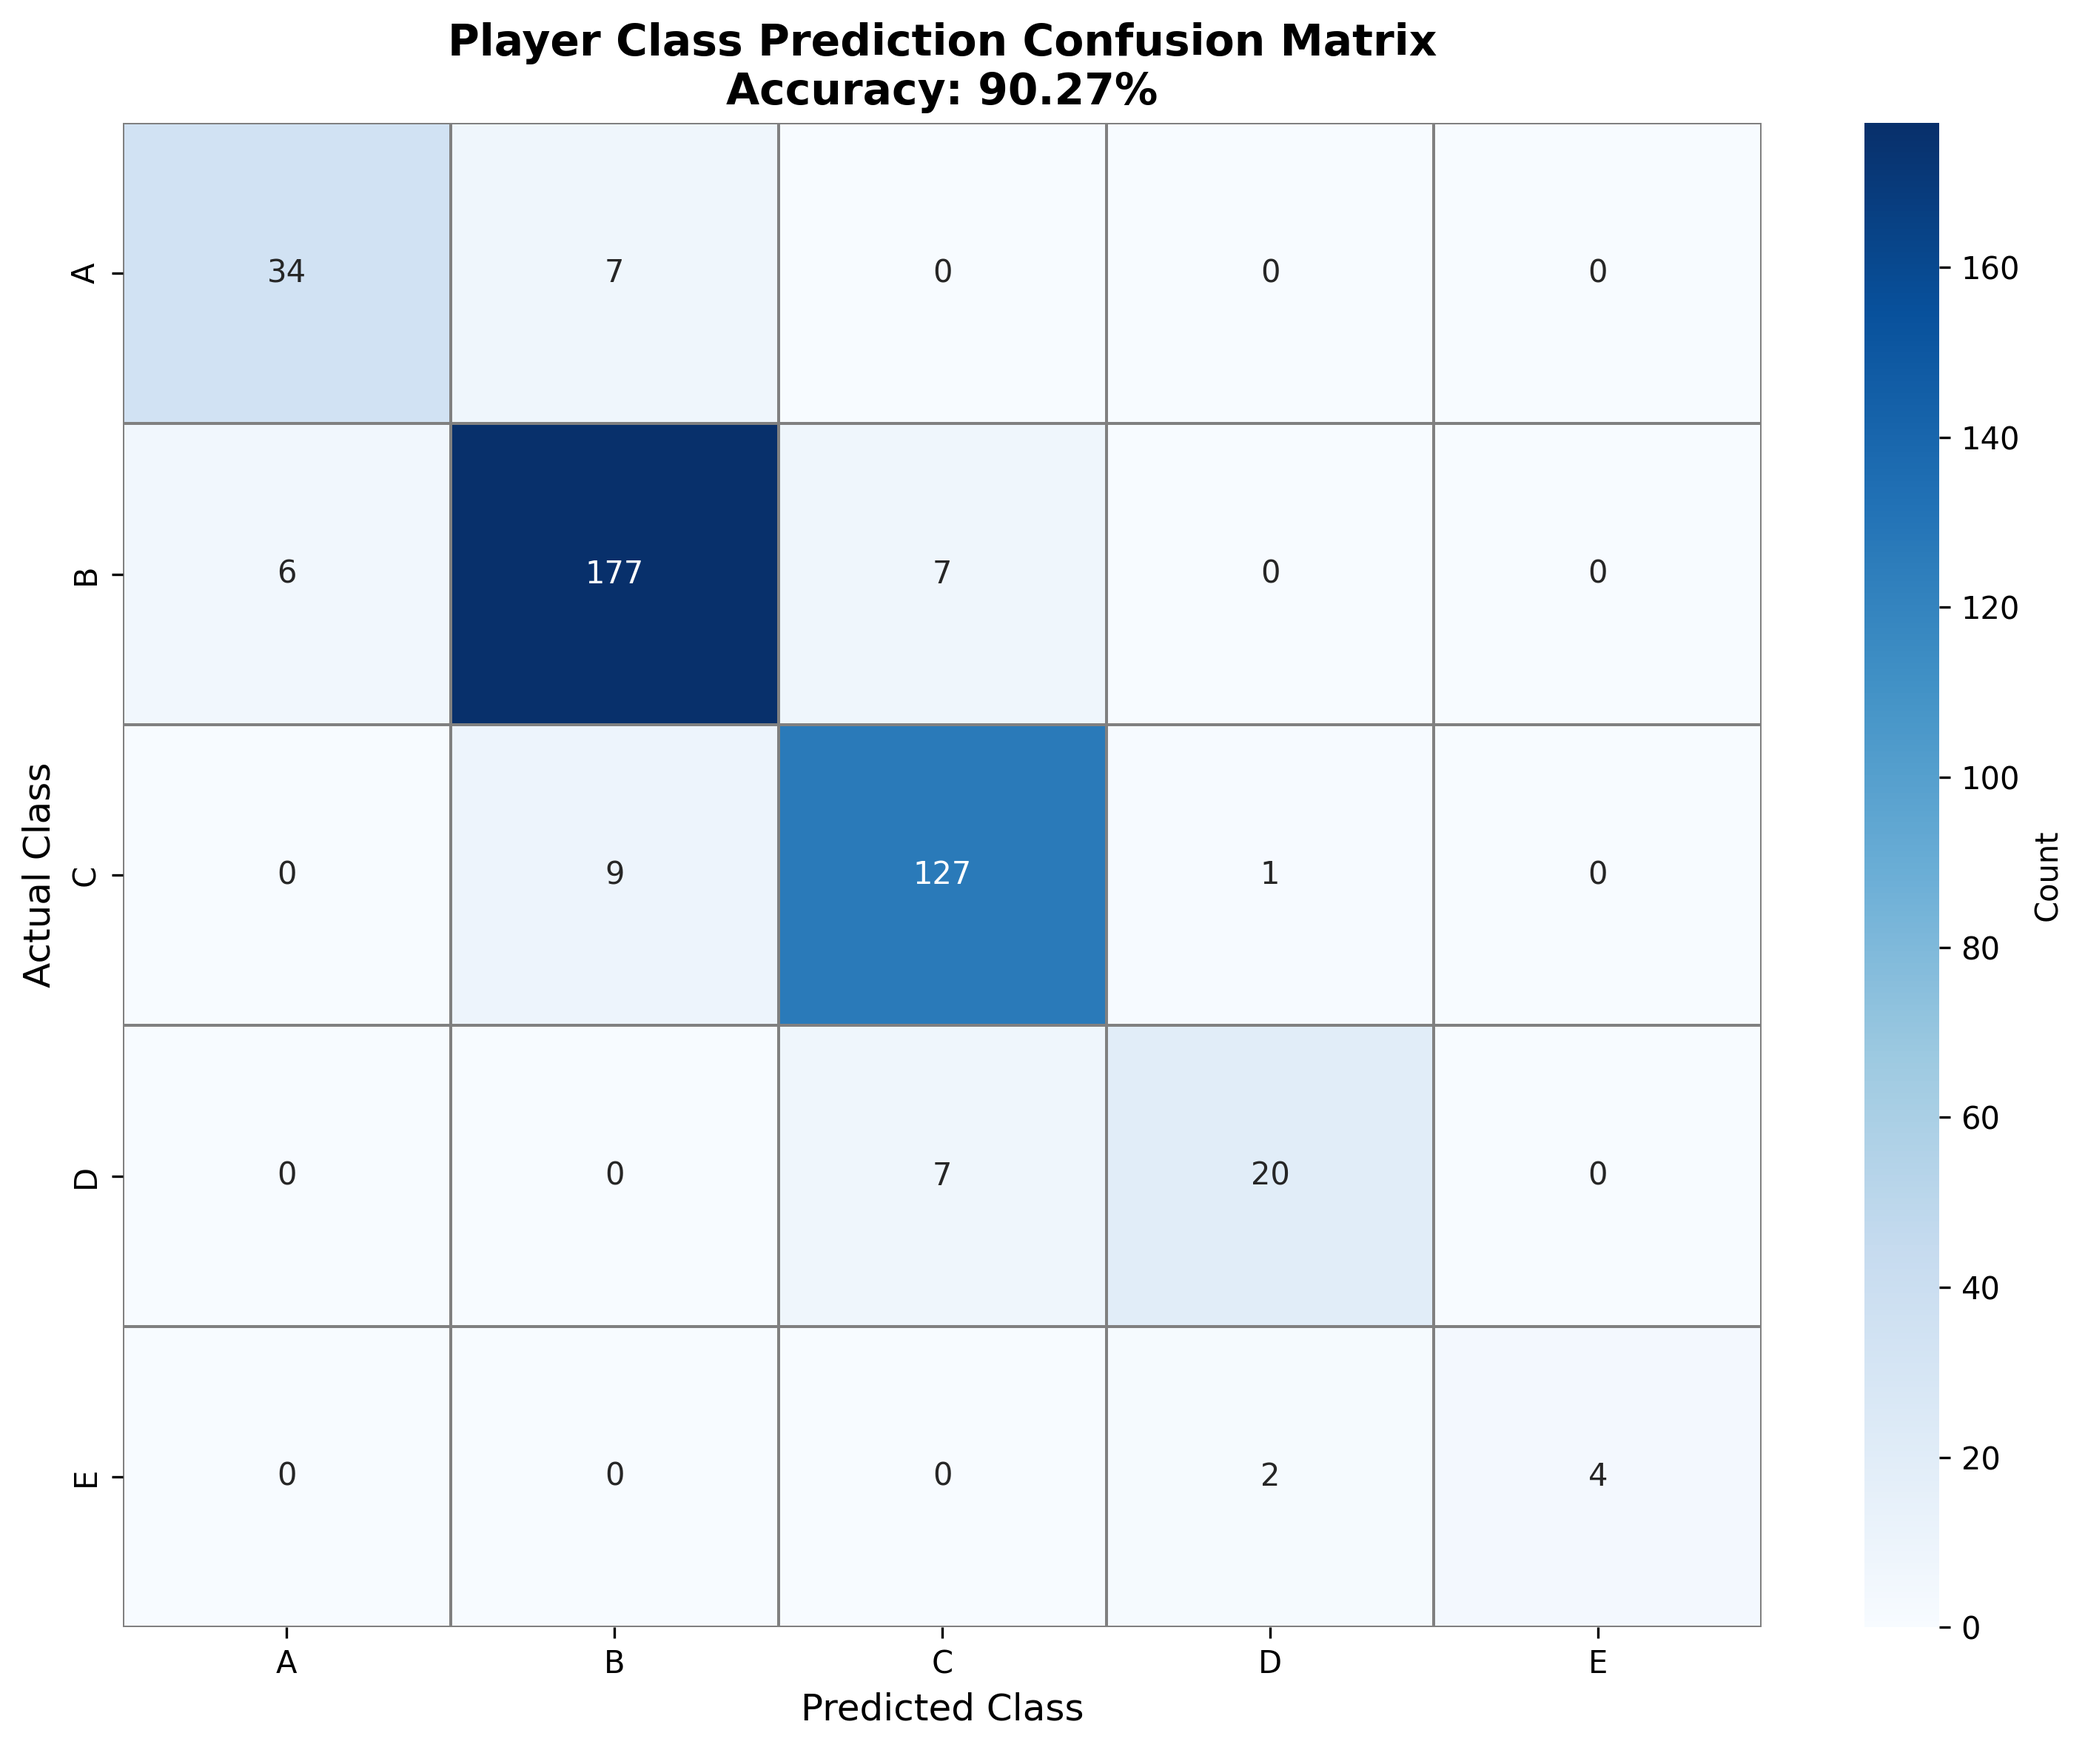
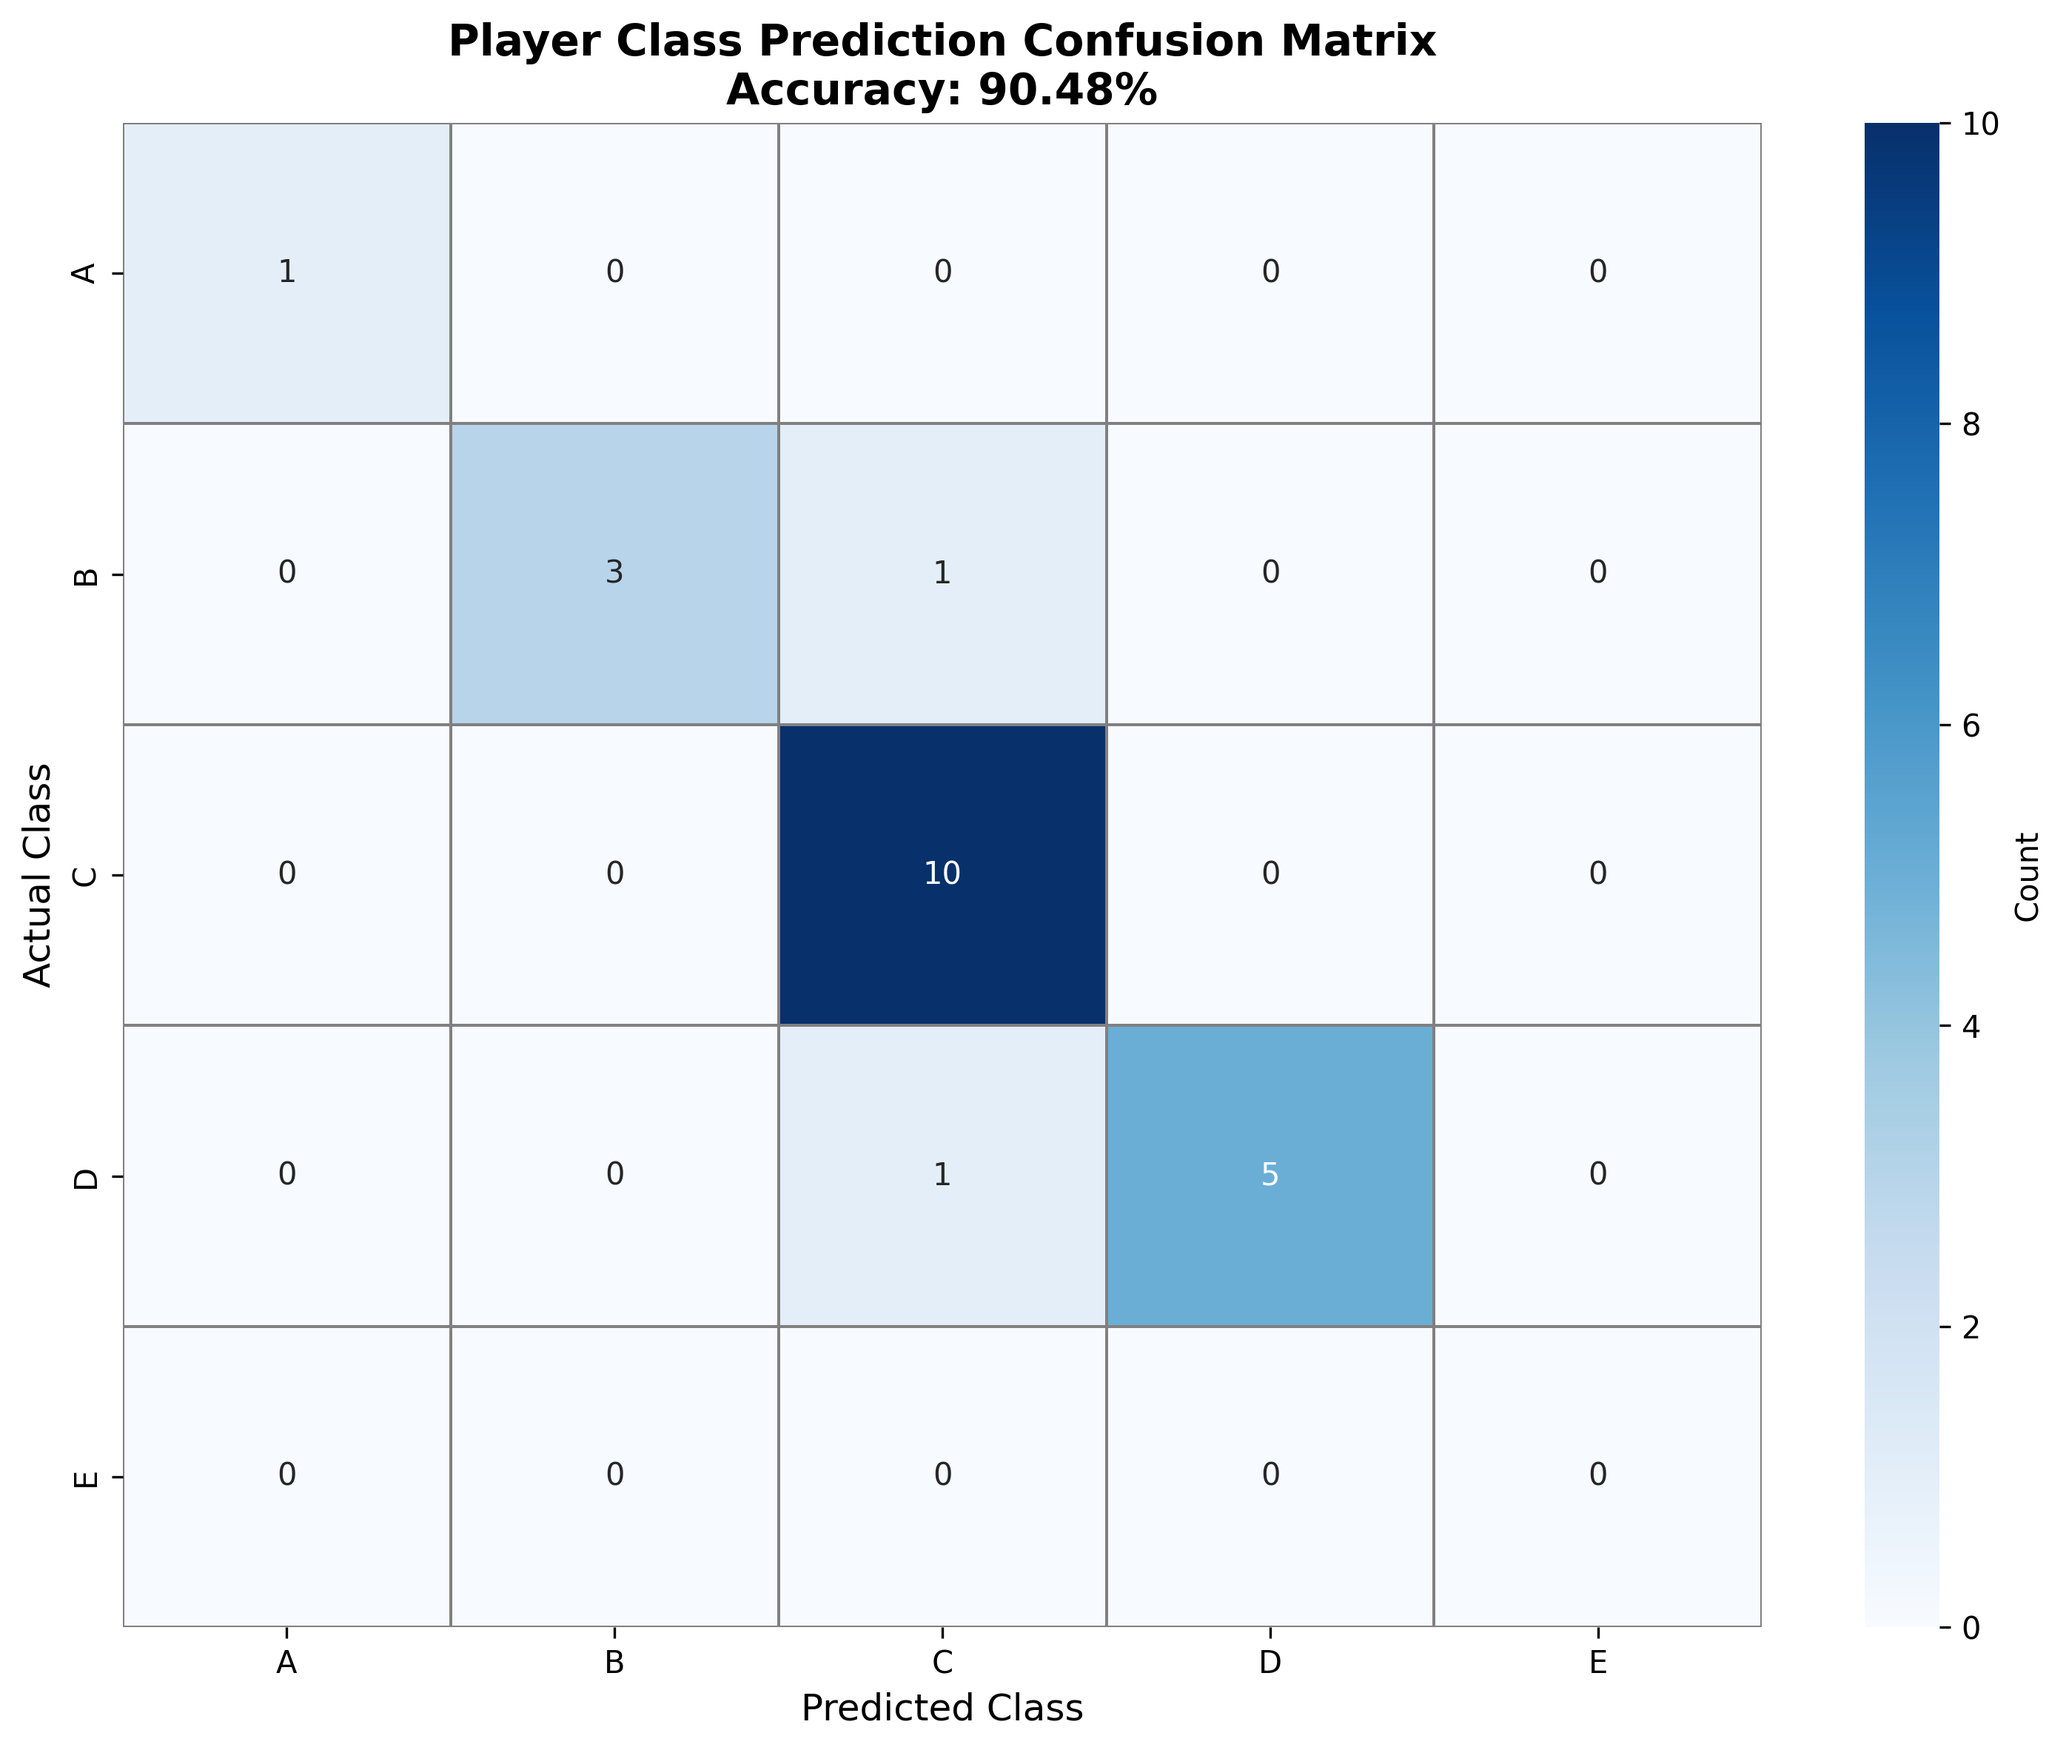
New model generated with new weighted scales and class boundaries.

diff --git a/src/generate_data.py b/src/generate_data.py
@@ -75,7 +75,7 @@ print(f"CODM Experience Distribution: {codm_exp_dist}")
 print(f"Preferred Mode Distribution: {preferred_mode_dist}")
 
 # Step 4: Generate synthetic data
-print(f"\nGenerating 1932 synthetic records...")
+print(f"\nGenerating 70 synthetic records...")
 
 def generate_correlated_synthetic_data(n_samples, real_data):
     """
@@ -166,13 +166,13 @@ def generate_correlated_synthetic_data(n_samples, real_data):
         synthetic_records.append(record)
 
         # Progress indicator
-        if (i + 1) % 500 == 0:
+        if (i + 1) % 10 == 0:
             print(f"   Generated {i + 1}/{n_samples} records...")
     
     return pd.DataFrame(synthetic_records)
 
 # Generate synthetic data
-synthetic_data = generate_correlated_synthetic_data(1932, real_data_clean)
+synthetic_data = generate_correlated_synthetic_data(70, real_data_clean)
 
 print(f"Synthetic data generated: {len(synthetic_data)} records")
 
@@ -199,53 +199,61 @@ print("\nCreating performance score...")
 
 def calculate_performance_score(row):
     """
-    Calculate player performance score (0-100) based on weighted features
+    Calculate player performance score (0-100) based on weighted features.
     
-    NEW Weight Distribution:
-    - MP Legendary Streak: 20% (0-20 points, CAPPED at 15 seasons)
-    - CODM Experience: 15% (0-15 points)
-    - K/D Ratio: 30% (0-30 points)
-    - Daily Play Time: 25% (0-25 points)
-    - Experience Level: 10% (0-10 points)
+    NEW DYNAMIC CODM WEIGHT DISTRIBUTION:
+    - MP Legendary Streak: 35% (Capped at 18 seasons to reflect long-term veterans)
+    - K/D Ratio: 30% (Dynamically scaled: 1-5 for new players, 1-2.5 for veterans)
+    - Daily Play Time: 15% (Rewards dedication/progress, allows new players to score well)
+    - Experience Level: 10% (General game time indicator, caps at 400)
+    - CODM Experience: 10% (Account age baseline)
     """
     
-    # 1. MP Legendary Streak: 20 points MAX, CAPPED at 15 seasons
-    legendary_capped = min(15, row['mp_legendary_streak'])
-    legendary_score = (legendary_capped / 15) * 20  # 0→0, 15→20
+    # 1. MP Legendary Streak: 35 points MAX (Capped at 18 seasons)
+    legendary_capped = min(18, row['mp_legendary_streak'])
+    legendary_score = (legendary_capped / 18) * 35
     
-    # 2. CODM Experience: 15 points
-    experience_map = {
-        'Less than 1 year': 3.75,      # 25% of 15
-        '1-2 years': 7.5,              # 50% of 15
-        '2-3 years': 11.25,            # 75% of 15
-        'More than 3 years': 15        # 100% of 15
-    }
-    experience_score = experience_map.get(row['codm_experience'], 7.5)
+    # 2. K/D Ratio: 30 points MAX (Dynamic Scaling)
+    kd = row['mp_kd_ratio']
+    exp_years = row['codm_experience']
     
-    # 3. K/D Ratio: 30 points (CAPPED at 2.5)
-    kd_capped = min(2.5, row['mp_kd_ratio'])
-    kd_normalized = (kd_capped - 0.5) / 2.0  # 0.5→0, 2.5→1
-    kd_score = min(30, max(0, kd_normalized * 30))
-
-    
-    # 4. Daily Play Time: 25 points
+    if exp_years in ['Less than 1 year', '1-2 years']:
+        # New players get bot lobbies, K/D is inflated. Scale from 1.0 to 5.0.
+        kd_capped = min(5.0, max(1.0, kd))
+        kd_score = ((kd_capped - 1.0) / 4.0) * 30
+    else:
+        # Veteran players face real players/SBMM, K/D is harder. Scale from 1.0 to 2.5.
+        kd_capped = min(2.5, max(1.0, kd))
+        kd_score = ((kd_capped - 1.0) / 1.5) * 30
+        
+    # 3. Daily Play Time: 15 points MAX 
+    # Heavily rewards active learners and helps balance out new players lacking years of history
     play_time_map = {
-        'Less than 1 hour': 6.25,      # 25% of 25
-        '1-2 hours': 12.5,             # 50% of 25
-        '2-3 hours': 18.75,            # 75% of 25
-        'More than 3 hours': 25        # 100% of 25
+        'Less than 1 hour': 3.75,      # 25% of 15
+        '1-2 hours': 7.5,              # 50% of 15
+        '2-3 hours': 11.25,            # 75% of 15
+        'More than 3 hours': 15.0      # 100% of 15
     }
-    play_time_score = play_time_map.get(row['daily_play_time'], 12.5)
+    play_time_score = play_time_map.get(row['daily_play_time'], 7.5)
+
+    # 4. Experience Level: 10 points MAX (Level 1 to 400)
+    level_normalized = min(400, max(1, row['experience_level'])) / 400
+    level_score = level_normalized * 10
     
-    # 5. Experience Level: 10 points
-    level_normalized = (row['experience_level'] - 50) / 350  # 50→0, 400→1
-    level_score = min(10, max(0, level_normalized * 10))
+    # 5. CODM Experience (Years): 10 points MAX
+    experience_map = {
+        'Less than 1 year': 2.5,       # 25% of 10
+        '1-2 years': 5.0,              # 50% of 10
+        '2-3 years': 7.5,              # 75% of 10
+        'More than 3 years': 10.0      # 100% of 10
+    }
+    experience_score = experience_map.get(row['codm_experience'], 5.0)
     
     # Calculate total score
     total = kd_score + legendary_score + level_score + play_time_score + experience_score
     
-    # Add small random noise (±2 points) for realism
-    noise = np.random.normal(0, 1.5)
+    # Add a tiny bit of random noise (±1 point) for realism
+    noise = np.random.normal(0, 1.0)
     final_score = np.clip(total + noise, 0, 100)
     
     return round(final_score, 1)
@@ -255,18 +263,20 @@ combined_data['performance_score'] = combined_data.apply(calculate_performance_s
 
 # Step 7: Assign player classes
 def assign_class(score):
-    """NEW CLASS BOUNDARIES"""
-    if score >= 71:
-        return 'A'
-    elif score >= 51:
-        return 'B'
+    """
+    ADJUSTED CLASS BOUNDARIES
+    Accounts for the 18-season cap and the dynamic K/D scaling.
+    """
+    if score >= 75:
+        return 'A'  # Elite (Requires ~15+ Legendaries, max K/D bracket, and high activity)
+    elif score >= 55:
+        return 'B'  # Advanced (Great veterans, or incredibly dedicated/high K/D newer players)
     elif score >= 35:
-        return 'C'
-    elif score >= 26:
-        return 'D'
+        return 'C'  # Intermediate (The true average: Level 200-400, moderate K/D, a few Legendaries)
+    elif score >= 20:
+        return 'D'  # Beginner (Active but newer, or very casual older players)
     else:
-        return 'E'
-
+        return 'E'  # Novice (Brand new, low activity, sub-1.0 K/D)
 
 combined_data['player_class'] = combined_data['performance_score'].apply(assign_class)
 
@@ -300,7 +310,7 @@ print("\nExperience Level:")
 print(combined_data['experience_level'].describe())
 
 # Step 9: Save the combined dataset to proper location
-output_filename = 'data/processed/zifty_player_data_complete_2000.csv'
+output_filename = 'data/processed/zifty_player_data_complete_105.csv'
 combined_data.to_csv(output_filename, index=False)
 
 print(f"\nDataset saved as '{output_filename}'")

diff --git a/src/train_model.py b/src/train_model.py
@@ -30,10 +30,10 @@ print("="*70)
 print("\n[1/8] Loading processed data...")
 
 try:
-    data = pd.read_csv('data/processed/zifty_player_data_complete_2000.csv')
+    data = pd.read_csv('data/processed/zifty_player_data_complete_105.csv')
     print(f"Successfully loaded {len(data)} records")
 except FileNotFoundError:
-    print("ERROR: Could not find 'data/processed/zifty_player_data_complete_2000.csv'")
+    print("ERROR: Could not find 'data/processed/zifty_player_data_complete_105.csv'")
     print("Please run the data generation script first.")
     exit()
 
@@ -229,11 +229,16 @@ y_pred_test = best_model.predict(X_test)
 
 # Convert predictions to classes
 def assign_class(score):
-    if score >= 71: return 'A'
-    elif score >= 51: return 'B'
-    elif score >= 35: return 'C'
-    elif score >= 26: return 'D'
-    else: return 'E'
+    if score >= 75:
+        return 'A'
+    elif score >= 55:
+        return 'B'
+    elif score >= 35:
+        return 'C'
+    elif score >= 20:
+        return 'D'
+    else:
+        return 'E'
 
 y_pred_class = [assign_class(score) for score in y_pred_test]
 
